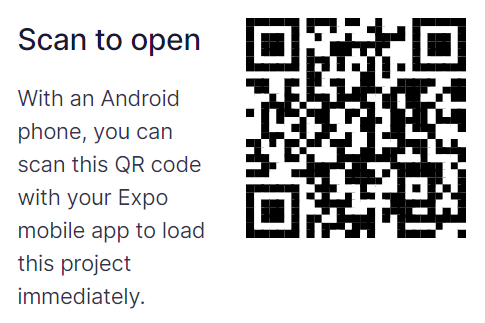
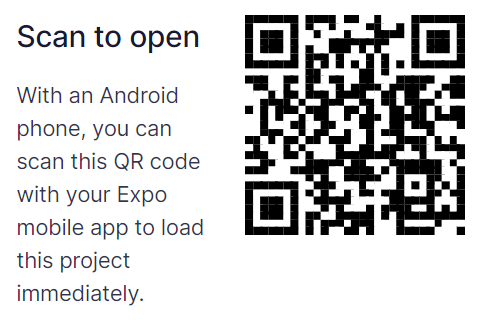
add link

diff --git a/src/components/PostsList.js b/src/components/PostsList.js
@@ -68,15 +68,13 @@ export const PostsList = ({ getPost, getAuthorPosts }) => {
 
 const styles = StyleSheet.create({
   wrap: {
-    alignItems: 'center',
-    justifyContent: 'space-between',
-    margin: 10,
     borderBottomWidth: 2,
     borderRightWidth: 2,
     borderColor: 'lightgrey',
     borderBottomRightRadius: 10,
     backgroundColor: '#f3f3f3',
     padding: 10,
+    margin: 10,
   },
   container: {
     alignItems: 'center',

diff --git a/README.md b/README.md
@@ -2,6 +2,6 @@
 
 - Tech stack: JavaScript, React Native (Hooks, fetch, functional components)
 
-- Demo link (Apk file) [here](https://exp-shell-app-assets.s3.us-west-1.amazonaws.com/android/%40goncharukop/rn_blog_app-eb027bf4dc2a446e999d51ac006828f2-signed.apk) -->
+- Demo link (Apk file) [HERE](https://exp-shell-app-assets.s3.us-west-1.amazonaws.com/android/%40goncharukop/rn_blog_app-d434de27bedf46dd80c318f896715710-signed.apk)
 
-- Open using Expo App on Android [QR here](https://github.com/goncharukop/rn_blog_app/blob/master/qr.png)
+- Open using Expo App on Android [QR HERE](https://github.com/goncharukop/rn_blog_app/blob/master/qr.png)
